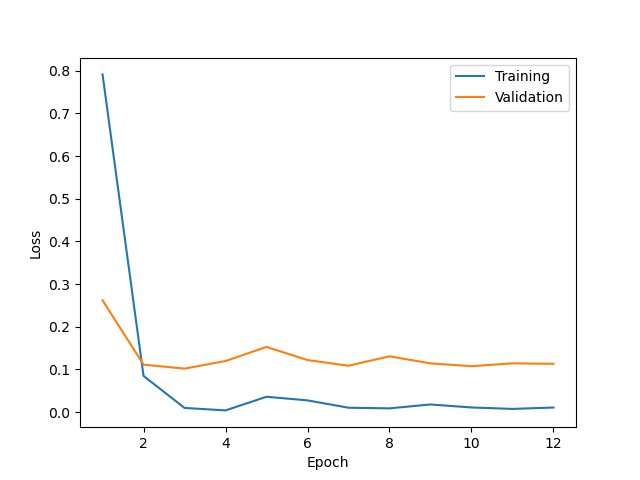
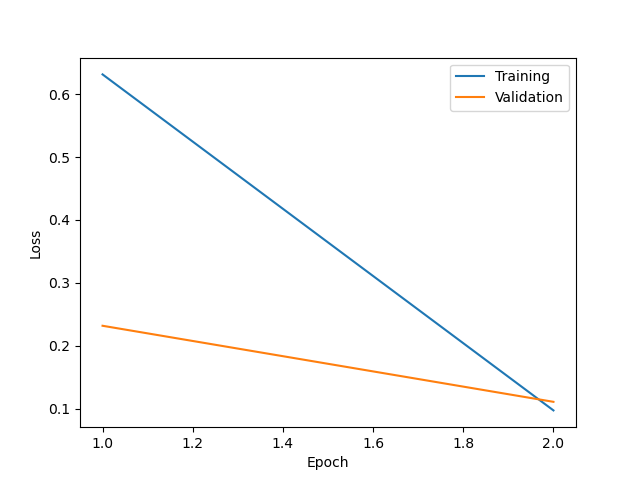
Fixed some code

diff --git a/training_testing.py b/training_testing.py
@@ -45,16 +45,11 @@ class Decoder(nn.Module):
     ):
         super(Decoder, self).__init__()
 
-        # Finding 11th word: Embedding(vocab_size, emb_size)
-        # Finding category: Embedding(vocab_size, emb_size)
-        # But, there are only 5 categories
-        # Index 0: padding first time
-        # Index 0: first category second time
         self.embedding = nn.Embedding(input_size, embedding_size)
         self.lstm = nn.LSTM(hidden_size * 2 + embedding_size, hidden_size, num_layers)
 
         self.energy = nn.Linear(hidden_size * 3, 1)
-        self.fc = nn.Linear(hidden_size, output_size)  # Changed from finding 11th word to category
+        self.fc = nn.Linear(hidden_size, output_size)
         self.dropout = nn.Dropout(p)
         self.softmax = nn.Softmax(dim=0)
         self.relu = nn.ReLU()
@@ -125,12 +120,10 @@ class Seq2Seq(nn.Module):
         encoder_states, hidden, cell = self.encoder(source)
 
         # Get the first input to the decoder which is the sos token
-        if semi_supervised == config.SEMI_SUPERVISED_PHASE_1_SHUFFLED_WORDS:
-            x = config.N_FEATURES
-        elif semi_supervised == config.SEMI_SUPERVISED_PHASE_1_ELEVENTH_WORD:
-            x = config.SOS_TOKEN
+        if self.decoder.embedding.num_embeddings == 1:
+            x = config.SOS_TOKEN_ELEVENTH
         else:
-            x = config.SUPERVISED_NUM_CLASSES
+            x = config.SOS_TOKEN_SHUFFLED
 
         for t in range(0, target_len):
             # Use previous hidden, cell as context from encoder at start
@@ -142,14 +135,13 @@ class Seq2Seq(nn.Module):
             # Get the best word the decoder predicted (index in the vocabulary)
             best_guess = output.argmax(1)
 
-            # With probability of teacher_force_ratio the actual next word is used
-            # otherwise the word that the decoder predicted it to be is used.
-            # Teacher Forcing is utilized so that the model gets accustomed to seeing
-            # similar inputs at training and testing time. If teacher forcing is 1
-            # then inputs at test time could be very different from what the
-            # network is accustomed to
-
             if semi_supervised == config.SEMI_SUPERVISED_PHASE_1_SHUFFLED_WORDS:
+                # With probability of teacher_force_ratio the actual next word is used
+                # otherwise the word that the decoder predicted it to be is used.
+                # Teacher Forcing is utilized so that the model gets accustomed to seeing
+                # similar inputs at training and testing time. If teacher forcing is 1
+                # then inputs at test time could be very different from what the
+                # network is accustomed to
                 x = target[t] if random.random() < teacher_force_ratio else best_guess
 
         return outputs
@@ -272,9 +264,8 @@ def run(device, dataset_sizes, dataloaders, num_classes, semi_supervised, num_ep
         ).to(device)
 
         decoder_net = Decoder(
-            config.VOCAB_SIZE if semi_supervised == config.SEMI_SUPERVISED_PHASE_1_ELEVENTH_WORD
-            else (config.N_FEATURES + 1 if semi_supervised == config.SEMI_SUPERVISED_PHASE_1_SHUFFLED_WORDS
-                  else config.SUPERVISED_NUM_CLASSES + 1),
+            config.N_FEATURES + 1 if semi_supervised == config.SEMI_SUPERVISED_PHASE_1_SHUFFLED_WORDS
+            else 1,
             config.EMBED_DIM,
             config.HIDDEN_DIM,
             config.VOCAB_SIZE if semi_supervised == config.SEMI_SUPERVISED_PHASE_1_ELEVENTH_WORD
@@ -286,7 +277,7 @@ def run(device, dataset_sizes, dataloaders, num_classes, semi_supervised, num_ep
 
         model = Seq2Seq(encoder_net, decoder_net, device).to(device)
 
-    criterion = torch.nn.CrossEntropyLoss(ignore_index=config.PAD_IDX).to(device)
+    criterion = torch.nn.CrossEntropyLoss().to(device)
     optimizer = torch.optim.Adam(model.parameters(), lr=config.LEARNING_RATE)
 
     if semi_supervised == config.SEMI_SUPERVISED_PHASE_1_SHUFFLED_WORDS:

diff --git a/config.py b/config.py
@@ -37,18 +37,19 @@ NUM_WORKERS = 0  # TODO: Fix bug where NUM_WORKERS >= 4 leads to WinError 1455
 
 # Needed when using an encoder-decoder model,
 # because the first 'word' input token to the decoder needs to be an sos (start of sequence) token
-SOS_TOKEN = None
+SOS_TOKEN_ELEVENTH = 0
+SOS_TOKEN_SHUFFLED = N_FEATURES
 PAD_IDX = 0
 
 TARGET_LEN = 1
 
 # Supervised (input: 10 words, output: category)
 SUPERVISED_NUM_CLASSES = len(categories)
-SUPERVISED_N_EPOCHS = 12
+SUPERVISED_N_EPOCHS = 2
 
 # Semi-supervised phase 1 (input: 10 words, output: 11th word)
-SEMI_SUPERVISED_PHASE_1_N_EPOCHS = 12
+SEMI_SUPERVISED_PHASE_1_N_EPOCHS = 2
 
 # Semi-supervised phase 2 (input: 10 words, output: category)
 SEMI_SUPERVISED_PHASE_2_NUM_CLASSES = SUPERVISED_NUM_CLASSES
-SEMI_SUPERVISED_PHASE_2_N_EPOCHS = 12
+SEMI_SUPERVISED_PHASE_2_N_EPOCHS = 2
